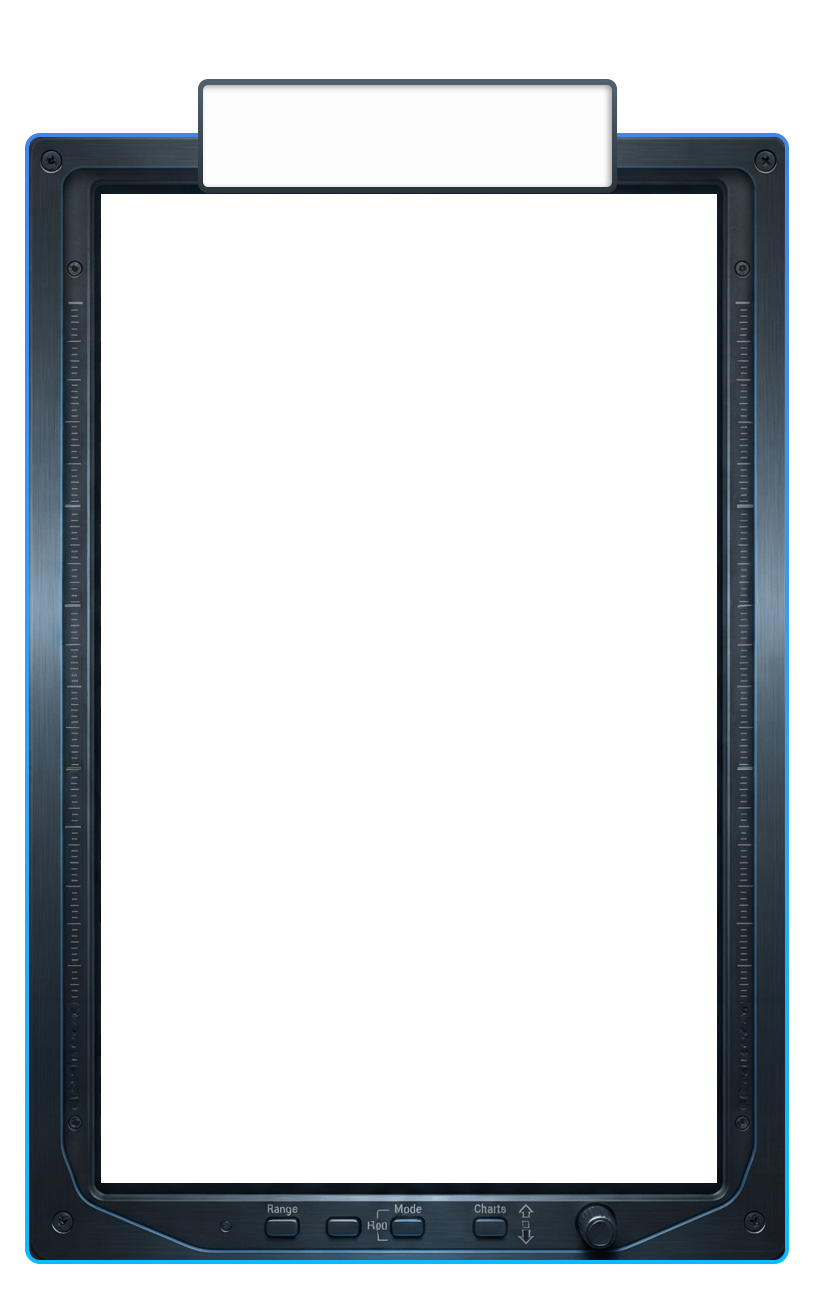
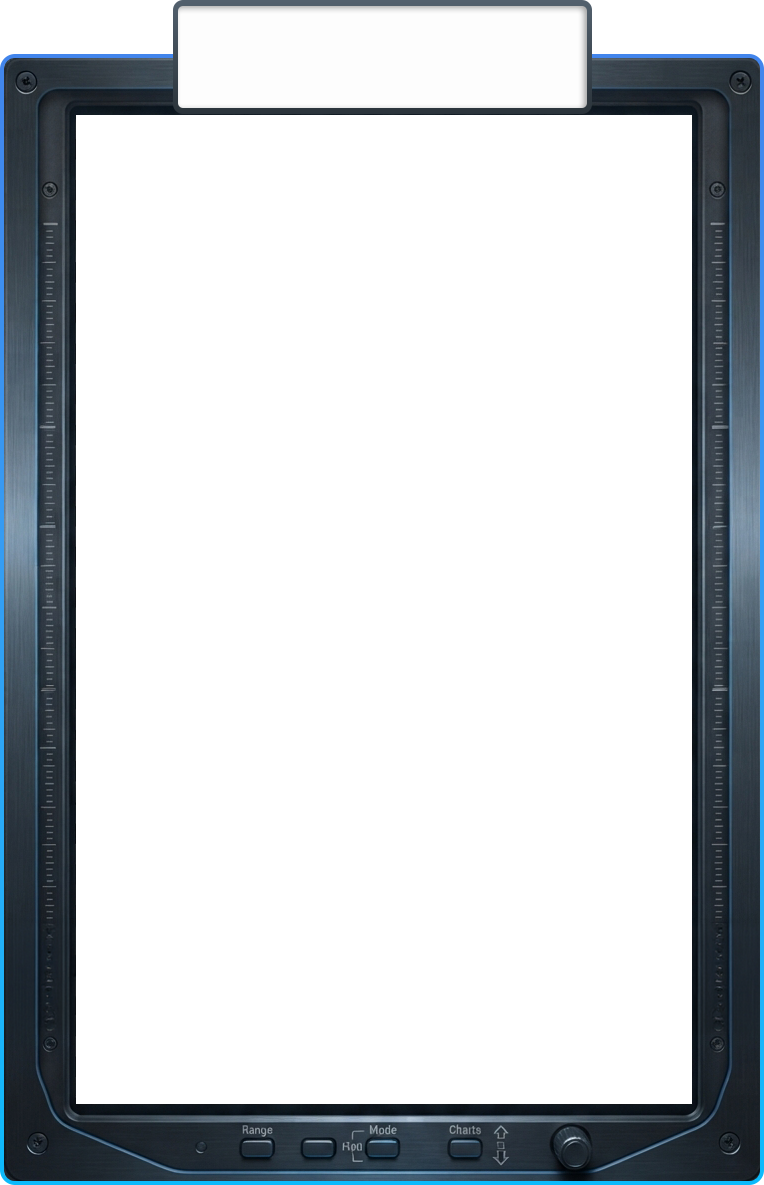
Add led light

Changed region(s): [[0.0, 0.0, 1.0, 1.0]]

diff --git a/scss/_light.scss b/scss/_light.scss
@@ -1,0 +1,10 @@
+.led-green {
+  aspect-ratio: 1;
+  background-color: #ABFF00;
+  border-radius: 50%;
+ box-shadow: rgba(0, 0, 0, 0.2) 0 -1px 7px 1px, inset #304701 0 -1px 9px, #89FF00 0 2px 12px;
+  position: absolute; bottom: 16px; left: 100px;
+  width: 10px;
+}
+
+

diff --git a/index.html b/index.html
@@ -12,6 +12,8 @@
 
 <div class="overlay">
 
+    <div class="led-green"></div>
+
   <div class="screen">
     <div class="screen__content"></div>
   </div>

diff --git a/scss/_badge.scss b/scss/_badge.scss
@@ -1,6 +1,6 @@
 .badge {
   left: 98px;
-  top: 6px;
+  top: 9px;
   z-index: 2;
   width: 194px;
   height: 42px;

diff --git a/scss/overlay.scss b/scss/overlay.scss
@@ -2,5 +2,6 @@
 @use "reset";
 @use "animations";
 @use "screen";
+@use "light";
 @use "frame";
 @use "badge";
